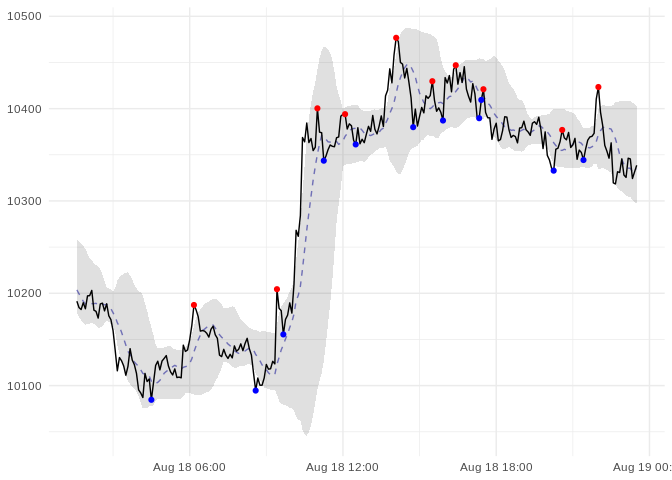
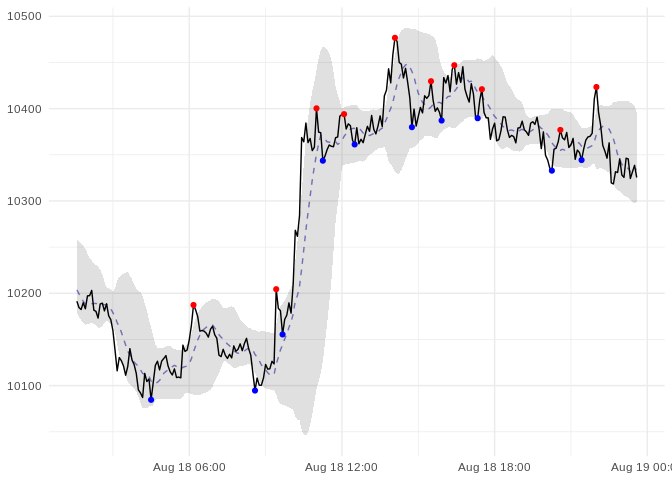
readjust zigzag span behaviour

diff --git a/docs/index.html b/docs/index.html
@@ -84,7 +84,7 @@
 <p>Here’s a quick example for setting-up a recipe to produce ZigZag, Bollinger Bands, and moving average:</p>
 <div class="sourceCode" id="cb3"><pre class="sourceCode r"><code class="sourceCode r"><a class="sourceLine" id="cb3-1" data-line-number="1"><span class="co"># an example recipe</span></a>
 <a class="sourceLine" id="cb3-2" data-line-number="2">rec &lt;-<span class="st"> </span><span class="kw">recipe</span>(. <span class="op">~</span><span class="st"> </span>., <span class="dt">data =</span> btcusdt) <span class="op">%&gt;%</span><span class="st"> </span></a>
-<a class="sourceLine" id="cb3-3" data-line-number="3"><span class="st">  </span><span class="kw"><a href="reference/step_zigzag.html">step_zigzag</a></span>(close, <span class="dt">change =</span> <span class="fl">0.3</span>, <span class="dt">state =</span> <span class="ot">TRUE</span>, <span class="dt">span =</span> <span class="kw"><a href="https://rdrr.io/r/base/c.html">c</a></span>(<span class="dv">1</span>, <span class="dv">-1</span>)) <span class="op">%&gt;%</span><span class="st"> </span></a>
+<a class="sourceLine" id="cb3-3" data-line-number="3"><span class="st">  </span><span class="kw"><a href="reference/step_zigzag.html">step_zigzag</a></span>(close, <span class="dt">change =</span> <span class="fl">0.3</span>, <span class="dt">state =</span> <span class="ot">TRUE</span>) <span class="op">%&gt;%</span><span class="st"> </span></a>
 <a class="sourceLine" id="cb3-4" data-line-number="4"><span class="st">  </span><span class="kw"><a href="reference/step_bbands.html">step_bbands</a></span>(high, low, close) <span class="op">%&gt;%</span><span class="st"> </span></a>
 <a class="sourceLine" id="cb3-5" data-line-number="5"><span class="st">  </span><span class="kw"><a href="reference/step_ma.html">step_ma</a></span>(close) <span class="op">%&gt;%</span><span class="st"> </span></a>
 <a class="sourceLine" id="cb3-6" data-line-number="6"><span class="st">  </span><span class="kw">step_naomit</span>(<span class="kw">all_predictors</span>()) <span class="op">%&gt;%</span><span class="st"> </span></a>
@@ -92,7 +92,7 @@
 <a class="sourceLine" id="cb3-8" data-line-number="8"></a>
 <a class="sourceLine" id="cb3-9" data-line-number="9"><span class="co"># quick check</span></a>
 <a class="sourceLine" id="cb3-10" data-line-number="10"><span class="kw">juice</span>(rec)</a>
-<a class="sourceLine" id="cb3-11" data-line-number="11"><span class="co">#&gt; # A tibble: 26,161 x 15</span></a>
+<a class="sourceLine" id="cb3-11" data-line-number="11"><span class="co">#&gt; # A tibble: 26,162 x 15</span></a>
 <a class="sourceLine" id="cb3-12" data-line-number="12"><span class="co">#&gt;    datetime             open  high   low close volume turnover zigzag_value</span></a>
 <a class="sourceLine" id="cb3-13" data-line-number="13"><span class="co">#&gt;    &lt;dttm&gt;              &lt;dbl&gt; &lt;dbl&gt; &lt;dbl&gt; &lt;dbl&gt;  &lt;dbl&gt;    &lt;dbl&gt;        &lt;dbl&gt;</span></a>
 <a class="sourceLine" id="cb3-14" data-line-number="14"><span class="co">#&gt;  1 2019-05-01 01:35:00 5340. 5340. 5331. 5331. 0.510     2722.        5344.</span></a>
@@ -105,7 +105,7 @@
 <a class="sourceLine" id="cb3-21" data-line-number="21"><span class="co">#&gt;  8 2019-05-01 02:10:00 5353  5355. 5348. 5348. 0.191     1020.        5357.</span></a>
 <a class="sourceLine" id="cb3-22" data-line-number="22"><span class="co">#&gt;  9 2019-05-01 02:15:00 5349. 5369. 5348. 5362. 0.310     1661.        5358.</span></a>
 <a class="sourceLine" id="cb3-23" data-line-number="23"><span class="co">#&gt; 10 2019-05-01 02:20:00 5361. 5362. 5355. 5355. 0.356     1908.        5360.</span></a>
-<a class="sourceLine" id="cb3-24" data-line-number="24"><span class="co">#&gt; # … with 26,151 more rows, and 7 more variables: zigzag_trend &lt;fct&gt;,</span></a>
+<a class="sourceLine" id="cb3-24" data-line-number="24"><span class="co">#&gt; # … with 26,152 more rows, and 7 more variables: zigzag_trend &lt;fct&gt;,</span></a>
 <a class="sourceLine" id="cb3-25" data-line-number="25"><span class="co">#&gt; #   zigzag_swing &lt;fct&gt;, bbands_dn &lt;dbl&gt;, bbands_ma &lt;dbl&gt;, bbands_up &lt;dbl&gt;,</span></a>
 <a class="sourceLine" id="cb3-26" data-line-number="26"><span class="co">#&gt; #   bbands_pctb &lt;dbl&gt;, ma_close_value &lt;dbl&gt;</span></a></code></pre></div>
 <p>This example recipe would be very helpful for preparing data for further analysis. For example, here is a quick visualization:</p>
@@ -144,7 +144,7 @@
 <a class="sourceLine" id="cb5-11" data-line-number="11"></a>
 <a class="sourceLine" id="cb5-12" data-line-number="12"><span class="co"># get preprocess result for new data</span></a>
 <a class="sourceLine" id="cb5-13" data-line-number="13"><span class="kw">bake</span>(rec, btcusdt_new)</a>
-<a class="sourceLine" id="cb5-14" data-line-number="14"><span class="co">#&gt; # A tibble: 264 x 15</span></a>
+<a class="sourceLine" id="cb5-14" data-line-number="14"><span class="co">#&gt; # A tibble: 265 x 15</span></a>
 <a class="sourceLine" id="cb5-15" data-line-number="15"><span class="co">#&gt;    datetime              open   high    low  close volume turnover</span></a>
 <a class="sourceLine" id="cb5-16" data-line-number="16"><span class="co">#&gt;    &lt;dttm&gt;               &lt;dbl&gt;  &lt;dbl&gt;  &lt;dbl&gt;  &lt;dbl&gt;  &lt;dbl&gt;    &lt;dbl&gt;</span></a>
 <a class="sourceLine" id="cb5-17" data-line-number="17"><span class="co">#&gt;  1 2019-08-18 01:35:00 10173. 10198. 10173. 10191.   42.6  434072.</span></a>
@@ -157,7 +157,7 @@
 <a class="sourceLine" id="cb5-24" data-line-number="24"><span class="co">#&gt;  8 2019-08-18 02:10:00 10197. 10204. 10197. 10203.   23.8  242407.</span></a>
 <a class="sourceLine" id="cb5-25" data-line-number="25"><span class="co">#&gt;  9 2019-08-18 02:15:00 10204. 10204. 10180. 10182.   38.8  395315.</span></a>
 <a class="sourceLine" id="cb5-26" data-line-number="26"><span class="co">#&gt; 10 2019-08-18 02:20:00 10182. 10188. 10180. 10180.   21.7  220920.</span></a>
-<a class="sourceLine" id="cb5-27" data-line-number="27"><span class="co">#&gt; # … with 254 more rows, and 8 more variables: zigzag_value &lt;dbl&gt;,</span></a>
+<a class="sourceLine" id="cb5-27" data-line-number="27"><span class="co">#&gt; # … with 255 more rows, and 8 more variables: zigzag_value &lt;dbl&gt;,</span></a>
 <a class="sourceLine" id="cb5-28" data-line-number="28"><span class="co">#&gt; #   zigzag_trend &lt;fct&gt;, zigzag_swing &lt;fct&gt;, bbands_dn &lt;dbl&gt;,</span></a>
 <a class="sourceLine" id="cb5-29" data-line-number="29"><span class="co">#&gt; #   bbands_ma &lt;dbl&gt;, bbands_up &lt;dbl&gt;, bbands_pctb &lt;dbl&gt;,</span></a>
 <a class="sourceLine" id="cb5-30" data-line-number="30"><span class="co">#&gt; #   ma_close_value &lt;dbl&gt;</span></a></code></pre></div>
@@ -212,15 +212,14 @@
 <a class="sourceLine" id="cb8-7" data-line-number="7"><span class="st">  </span><span class="kw">gather</span>(key, value, <span class="op">-</span>datetime) <span class="op">%&gt;%</span><span class="st"> </span></a>
 <a class="sourceLine" id="cb8-8" data-line-number="8"><span class="st">  </span><span class="kw">mutate</span>(<span class="dt">key =</span></a>
 <a class="sourceLine" id="cb8-9" data-line-number="9">    <span class="kw"><a href="https://stringr.tidyverse.org/reference/str_replace.html">str_replace_all</a></span>(key, <span class="st">"cumret_"</span>, <span class="st">""</span>) <span class="op">%&gt;%</span><span class="st"> </span></a>
-<a class="sourceLine" id="cb8-10" data-line-number="10"><span class="st">      </span><span class="kw"><a href="https://stringr.tidyverse.org/reference/case.html">str_to_title</a></span>() <span class="op">%&gt;%</span><span class="st"> </span></a>
-<a class="sourceLine" id="cb8-11" data-line-number="11"><span class="st">      </span><span class="kw"><a href="https://rdrr.io/r/base/factor.html">factor</a></span>(<span class="kw"><a href="https://rdrr.io/r/base/c.html">c</a></span>(<span class="st">"Portfolio"</span>, <span class="st">"Benchmark"</span>))</a>
-<a class="sourceLine" id="cb8-12" data-line-number="12">  )</a>
-<a class="sourceLine" id="cb8-13" data-line-number="13"></a>
-<a class="sourceLine" id="cb8-14" data-line-number="14"><span class="kw"><a href="https://ggplot2.tidyverse.org/reference/ggplot.html">ggplot</a></span>(data_viz, <span class="kw"><a href="https://ggplot2.tidyverse.org/reference/aes.html">aes</a></span>(<span class="dt">x =</span> datetime, <span class="dt">y =</span> value)) <span class="op">+</span></a>
-<a class="sourceLine" id="cb8-15" data-line-number="15"><span class="st">  </span><span class="kw"><a href="https://ggplot2.tidyverse.org/reference/geom_path.html">geom_line</a></span>() <span class="op">+</span></a>
-<a class="sourceLine" id="cb8-16" data-line-number="16"><span class="st">  </span><span class="kw"><a href="https://ggplot2.tidyverse.org/reference/facet_wrap.html">facet_wrap</a></span>(<span class="kw"><a href="https://ggplot2.tidyverse.org/reference/vars.html">vars</a></span>(key), <span class="dt">ncol =</span> <span class="dv">1</span>, <span class="dt">scales =</span> <span class="st">"free"</span>) <span class="op">+</span></a>
-<a class="sourceLine" id="cb8-17" data-line-number="17"><span class="st">  </span><span class="kw"><a href="https://ggplot2.tidyverse.org/reference/labs.html">labs</a></span>(<span class="dt">title =</span> <span class="st">"Portfolio vs Benchmark Return"</span>, <span class="dt">x =</span> <span class="ot">NULL</span>, <span class="dt">y =</span> <span class="ot">NULL</span>) <span class="op">+</span></a>
-<a class="sourceLine" id="cb8-18" data-line-number="18"><span class="st">  </span><span class="kw"><a href="https://ggplot2.tidyverse.org/reference/ggtheme.html">theme_minimal</a></span>()</a></code></pre></div>
+<a class="sourceLine" id="cb8-10" data-line-number="10"><span class="st">      </span><span class="kw"><a href="https://stringr.tidyverse.org/reference/case.html">str_to_title</a></span>()</a>
+<a class="sourceLine" id="cb8-11" data-line-number="11">  )</a>
+<a class="sourceLine" id="cb8-12" data-line-number="12"></a>
+<a class="sourceLine" id="cb8-13" data-line-number="13"><span class="kw"><a href="https://ggplot2.tidyverse.org/reference/ggplot.html">ggplot</a></span>(data_viz, <span class="kw"><a href="https://ggplot2.tidyverse.org/reference/aes.html">aes</a></span>(<span class="dt">x =</span> datetime, <span class="dt">y =</span> value)) <span class="op">+</span></a>
+<a class="sourceLine" id="cb8-14" data-line-number="14"><span class="st">  </span><span class="kw"><a href="https://ggplot2.tidyverse.org/reference/geom_path.html">geom_line</a></span>() <span class="op">+</span></a>
+<a class="sourceLine" id="cb8-15" data-line-number="15"><span class="st">  </span><span class="kw"><a href="https://ggplot2.tidyverse.org/reference/facet_wrap.html">facet_wrap</a></span>(<span class="kw"><a href="https://ggplot2.tidyverse.org/reference/vars.html">vars</a></span>(key), <span class="dt">ncol =</span> <span class="dv">1</span>, <span class="dt">scales =</span> <span class="st">"free"</span>) <span class="op">+</span></a>
+<a class="sourceLine" id="cb8-16" data-line-number="16"><span class="st">  </span><span class="kw"><a href="https://ggplot2.tidyverse.org/reference/labs.html">labs</a></span>(<span class="dt">title =</span> <span class="st">"Portfolio vs Benchmark Return"</span>, <span class="dt">x =</span> <span class="ot">NULL</span>, <span class="dt">y =</span> <span class="ot">NULL</span>) <span class="op">+</span></a>
+<a class="sourceLine" id="cb8-17" data-line-number="17"><span class="st">  </span><span class="kw"><a href="https://ggplot2.tidyverse.org/reference/ggtheme.html">theme_minimal</a></span>()</a></code></pre></div>
 <p><img src="reference/figures/README-unnamed-chunk-9-1.png" style="display: block; margin: auto;"></p>
 </div>
 </div>

diff --git a/docs/reference/step_zigzag.html b/docs/reference/step_zigzag.html
@@ -234,8 +234,8 @@ which contains the extracted moving average features.</p>
 <li><p><code>swing</code>: swing points; either <code>"up"</code>, <code>"down"</code>, or <code>"hold"</code></p></li>
 </ul>
 
-<p>Note that the <code>"up"</code> and <code>"down"</code> are determined as
-the first <code>trend</code> change; you can control its wide and position using
+<p>Note that the <code>"up"</code> and <code>"down"</code> are positioned at the time before
+the <code>trend</code> change; you can control its wide and position using
 <code>span</code> arguments.</p>
 
     <h2 class="hasAnchor" id="examples"><a class="anchor" href="#examples"></a>Examples</h2>

diff --git a/README.md b/README.md
@@ -35,7 +35,7 @@ Bollinger Bands, and moving average:
 ``` r
 # an example recipe
 rec <- recipe(. ~ ., data = btcusdt) %>% 
-  step_zigzag(close, change = 0.3, state = TRUE, span = c(1, -1)) %>% 
+  step_zigzag(close, change = 0.3, state = TRUE) %>% 
   step_bbands(high, low, close) %>% 
   step_ma(close) %>% 
   step_naomit(all_predictors()) %>% 
@@ -43,7 +43,7 @@ rec <- recipe(. ~ ., data = btcusdt) %>%
 
 # quick check
 juice(rec)
-#> # A tibble: 26,161 x 15
+#> # A tibble: 26,162 x 15
 #>    datetime             open  high   low close volume turnover zigzag_value
 #>    <dttm>              <dbl> <dbl> <dbl> <dbl>  <dbl>    <dbl>        <dbl>
 #>  1 2019-05-01 01:35:00 5340. 5340. 5331. 5331. 0.510     2722.        5344.
@@ -56,7 +56,7 @@ juice(rec)
 #>  8 2019-05-01 02:10:00 5353  5355. 5348. 5348. 0.191     1020.        5357.
 #>  9 2019-05-01 02:15:00 5349. 5369. 5348. 5362. 0.310     1661.        5358.
 #> 10 2019-05-01 02:20:00 5361. 5362. 5355. 5355. 0.356     1908.        5360.
-#> # … with 26,151 more rows, and 7 more variables: zigzag_trend <fct>,
+#> # … with 26,152 more rows, and 7 more variables: zigzag_trend <fct>,
 #> #   zigzag_swing <fct>, bbands_dn <dbl>, bbands_ma <dbl>, bbands_up <dbl>,
 #> #   bbands_pctb <dbl>, ma_close_value <dbl>
 ```
@@ -106,7 +106,7 @@ btcusdt_new <- get_kucoin_prices(
 
 # get preprocess result for new data
 bake(rec, btcusdt_new)
-#> # A tibble: 264 x 15
+#> # A tibble: 265 x 15
 #>    datetime              open   high    low  close volume turnover
 #>    <dttm>               <dbl>  <dbl>  <dbl>  <dbl>  <dbl>    <dbl>
 #>  1 2019-08-18 01:35:00 10173. 10198. 10173. 10191.   42.6  434072.
@@ -119,7 +119,7 @@ bake(rec, btcusdt_new)
 #>  8 2019-08-18 02:10:00 10197. 10204. 10197. 10203.   23.8  242407.
 #>  9 2019-08-18 02:15:00 10204. 10204. 10180. 10182.   38.8  395315.
 #> 10 2019-08-18 02:20:00 10182. 10188. 10180. 10180.   21.7  220920.
-#> # … with 254 more rows, and 8 more variables: zigzag_value <dbl>,
+#> # … with 255 more rows, and 8 more variables: zigzag_value <dbl>,
 #> #   zigzag_trend <fct>, zigzag_swing <fct>, bbands_dn <dbl>,
 #> #   bbands_ma <dbl>, bbands_up <dbl>, bbands_pctb <dbl>,
 #> #   ma_close_value <dbl>
@@ -189,8 +189,7 @@ data_viz <- juice(rec) %>%
   gather(key, value, -datetime) %>% 
   mutate(key =
     str_replace_all(key, "cumret_", "") %>% 
-      str_to_title() %>% 
-      factor(c("Portfolio", "Benchmark"))
+      str_to_title()
   )
 
 ggplot(data_viz, aes(x = datetime, y = value)) +
